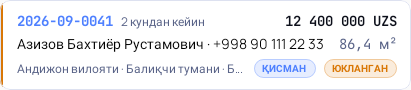
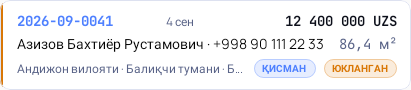
Feat(android) · plain dates on the order card, set in from the number
Drop the relative wording. A scheduled date now always renders as a calendar
date; the year is still omitted when it is the current one, since every row
repeats it in the order number and that width belongs to the address.

Set the date a quarter of the way into the gap between the order number and
the price rather than hard against the number. Done with a weighted spacer, so
it holds that position across screen widths and font scales.

Changed region(s): [[0.292, 0.1778, 0.4964, 0.3111]]

diff --git a/android/core/ui/src/test/kotlin/uz/etalon/crm/core/ui/format/FormattersTest.kt b/android/core/ui/src/test/kotlin/uz/etalon/crm/core/ui/format/FormattersTest.kt
@@ -33,26 +33,22 @@ class FormattersTest {
     private val now = Instant.parse("2026-09-07T07:00:00Z")
     private fun day(d: String) = Instant.parse("${d}T07:00:00Z")
 
-    @Test fun `a scheduled date inside the week reads as how soon, not which day`() {
-        assertEquals("бугун", formatScheduleDate(day("2026-09-07"), now))
-        assertEquals("эртага", formatScheduleDate(day("2026-09-08"), now))
-        assertEquals("кеча", formatScheduleDate(day("2026-09-06"), now))
-        assertEquals("3 кундан кейин", formatScheduleDate(day("2026-09-10"), now))
-        assertEquals("7 кундан кейин", formatScheduleDate(day("2026-09-14"), now))
-        assertEquals("4 кун олдин", formatScheduleDate(day("2026-09-03"), now))
+    @Test fun `a scheduled date is always a calendar date, never a relative phrase`() {
+        assertEquals("7 сен", formatScheduleDate(day("2026-09-07"), now))   // today
+        assertEquals("8 сен", formatScheduleDate(day("2026-09-08"), now))   // tomorrow
+        assertEquals("6 сен", formatScheduleDate(day("2026-09-06"), now))   // yesterday
+        assertEquals("15 сен", formatScheduleDate(day("2026-09-15"), now))
+        assertEquals("30 авг", formatScheduleDate(day("2026-08-30"), now))
     }
 
-    @Test fun `beyond the week it is absolute, and carries the year only when it differs`() {
-        assertEquals("15 сен", formatScheduleDate(day("2026-09-15"), now))       // 8 days out
-        assertEquals("7 кун олдин", formatScheduleDate(day("2026-08-31"), now))  // 7 back is still relative…
-        assertEquals("30 авг", formatScheduleDate(day("2026-08-30"), now))       // …8 back is not
+    @Test fun `the year is carried only when it is not the current one`() {
         assertEquals("15 мар 2027", formatScheduleDate(day("2027-03-15"), now))
         assertEquals("20 дек 2025", formatScheduleDate(day("2025-12-20"), now))
     }
 
-    @Test fun `relative days are counted in Tashkent time, not UTC`() {
-        // 23:30 UTC on 7 Sep is already 04:30 on 8 Sep in Tashkent (+05) — tomorrow, not today.
-        assertEquals("эртага", formatScheduleDate(Instant.parse("2026-09-07T23:30:00Z"), now))
+    @Test fun `the day is the Tashkent day, not the UTC one`() {
+        // 23:30 UTC on 7 Sep is already 04:30 on 8 Sep in Tashkent (+05).
+        assertEquals("8 сен", formatScheduleDate(Instant.parse("2026-09-07T23:30:00Z"), now))
     }
 
     @Test fun `an address keeps province and district ahead of the street, so the street truncates first`() {

diff --git a/android/core/ui/src/main/kotlin/uz/etalon/crm/core/ui/format/Formatters.kt b/android/core/ui/src/main/kotlin/uz/etalon/crm/core/ui/format/Formatters.kt
@@ -5,7 +5,6 @@ import java.math.BigDecimal
 import java.math.RoundingMode
 import java.time.Instant
 import java.time.ZoneId
-import java.time.temporal.ChronoUnit
 
 /** House number format (spec §6.5): space thousands, comma decimal, unit suffix.
  *  Device ICU is deliberately not used — the server does the same. */
@@ -55,25 +54,15 @@ fun formatDateTime(t: Instant): String {
 }
 
 /**
- * A scheduled date as it is read in a list sorted by `scheduledAt`: the operator's
- * question is how soon, not which calendar day. Inside a week the answer is relative;
- * beyond it the date is absolute, carrying the year only when it is not the current
- * one — every row already repeats the year in its order number.
+ * The scheduled day for a list row: always a calendar date, never a relative phrase.
+ * The year is carried only when it is not the current one — every row already repeats
+ * the current year in its order number, and the width belongs to the address instead.
  */
 fun formatScheduleDate(t: Instant, now: Instant = Instant.now()): String {
     val day = t.atZone(TASHKENT).toLocalDate()
     val today = now.atZone(TASHKENT).toLocalDate()
-    val delta = ChronoUnit.DAYS.between(today, day)
     val dayMonth = "${day.dayOfMonth} ${UZ_MONTHS_SHORT[day.monthValue - 1]}"
-    return when {
-        delta == 0L -> "бугун"
-        delta == 1L -> "эртага"
-        delta == -1L -> "кеча"
-        delta in 2L..7L -> "$delta кундан кейин"
-        delta in -7L..-2L -> "${-delta} кун олдин"
-        day.year == today.year -> dayMonth
-        else -> "$dayMonth ${day.year}"
-    }
+    return if (day.year == today.year) dayMonth else "$dayMonth ${day.year}"
 }
 
 /**

diff --git a/android/feature/orders/src/main/kotlin/uz/etalon/crm/feature/orders/list/OrderCard.kt b/android/feature/orders/src/main/kotlin/uz/etalon/crm/feature/orders/list/OrderCard.kt
@@ -31,7 +31,11 @@ fun OrderCard(o: OrderSummary, now: Instant = Instant.now(), onClick: () -> Unit
     StatusStripeCard(stripe = toneColor(orderStatusTone(o.status)), onClick = onClick) {
         Row(Modifier.fillMaxWidth(), verticalAlignment = Alignment.CenterVertically, horizontalArrangement = Arrangement.spacedBy(8.dp)) {
             Text(o.orderNumber, style = EtalonType.monoBody.copy(fontWeight = FontWeight.Bold), color = MaterialTheme.colorScheme.primary)
-            Text(formatScheduleDate(o.scheduledAt, now), style = MaterialTheme.typography.bodySmall, color = MaterialTheme.colorScheme.onSurfaceVariant, modifier = Modifier.weight(1f), maxLines = 1, overflow = TextOverflow.Ellipsis)
+            // The date sits a quarter of the way into the gap between the order number and
+            // the price, rather than hard against the number. Proportional, so it holds its
+            // position across screen widths and font scales.
+            Spacer(Modifier.weight(0.25f))
+            Text(formatScheduleDate(o.scheduledAt, now), style = MaterialTheme.typography.bodySmall, color = MaterialTheme.colorScheme.onSurfaceVariant, modifier = Modifier.weight(0.75f), maxLines = 1, overflow = TextOverflow.Ellipsis)
             MoneyText(o.totalPrice, style = EtalonType.monoBody.copy(fontWeight = FontWeight.Bold))
         }
         Spacer(Modifier.height(4.dp))
